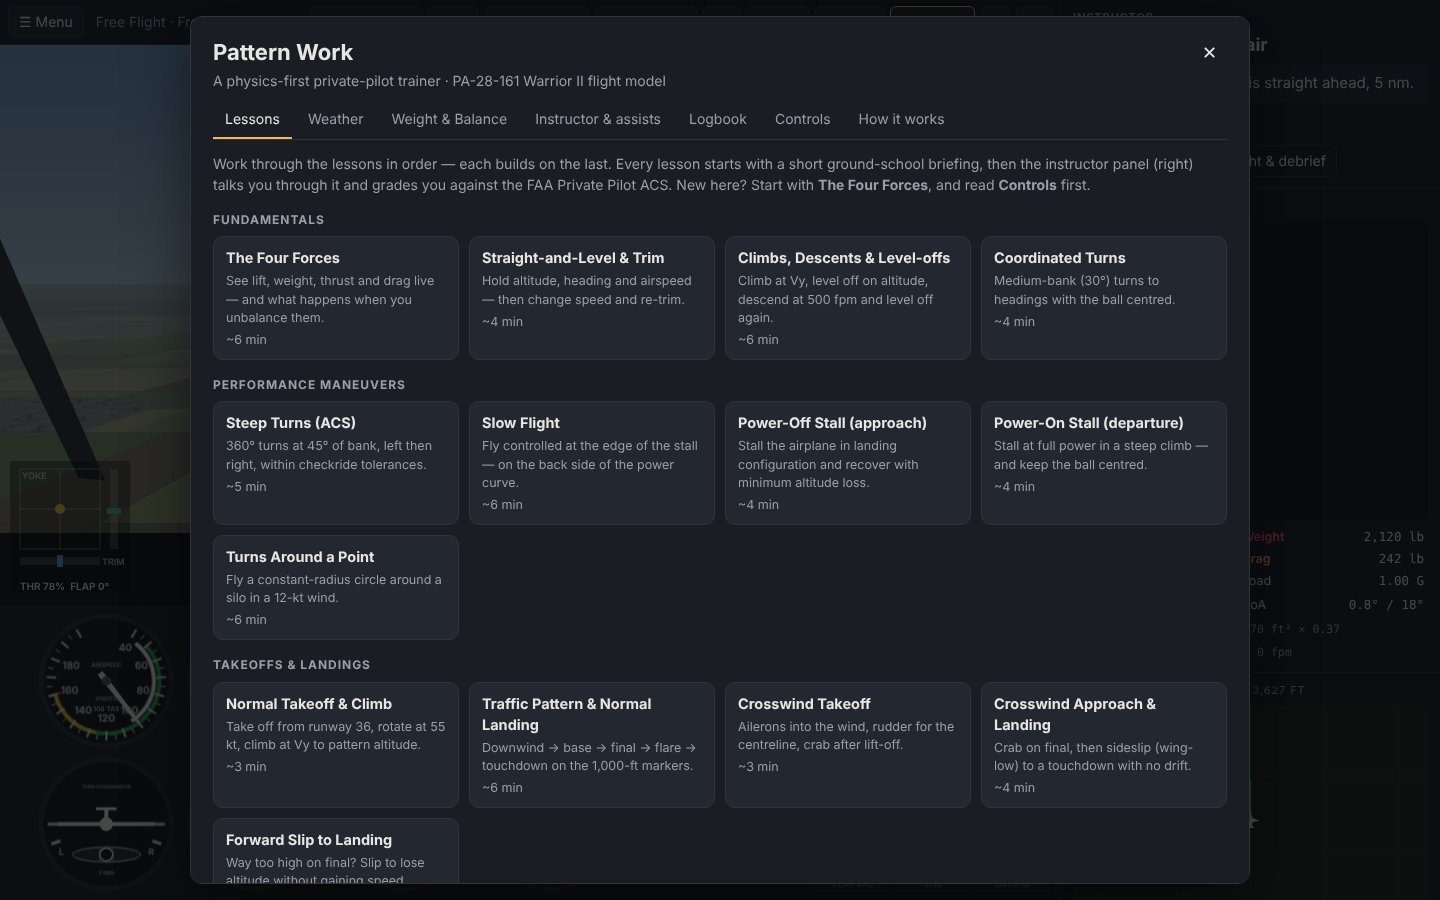
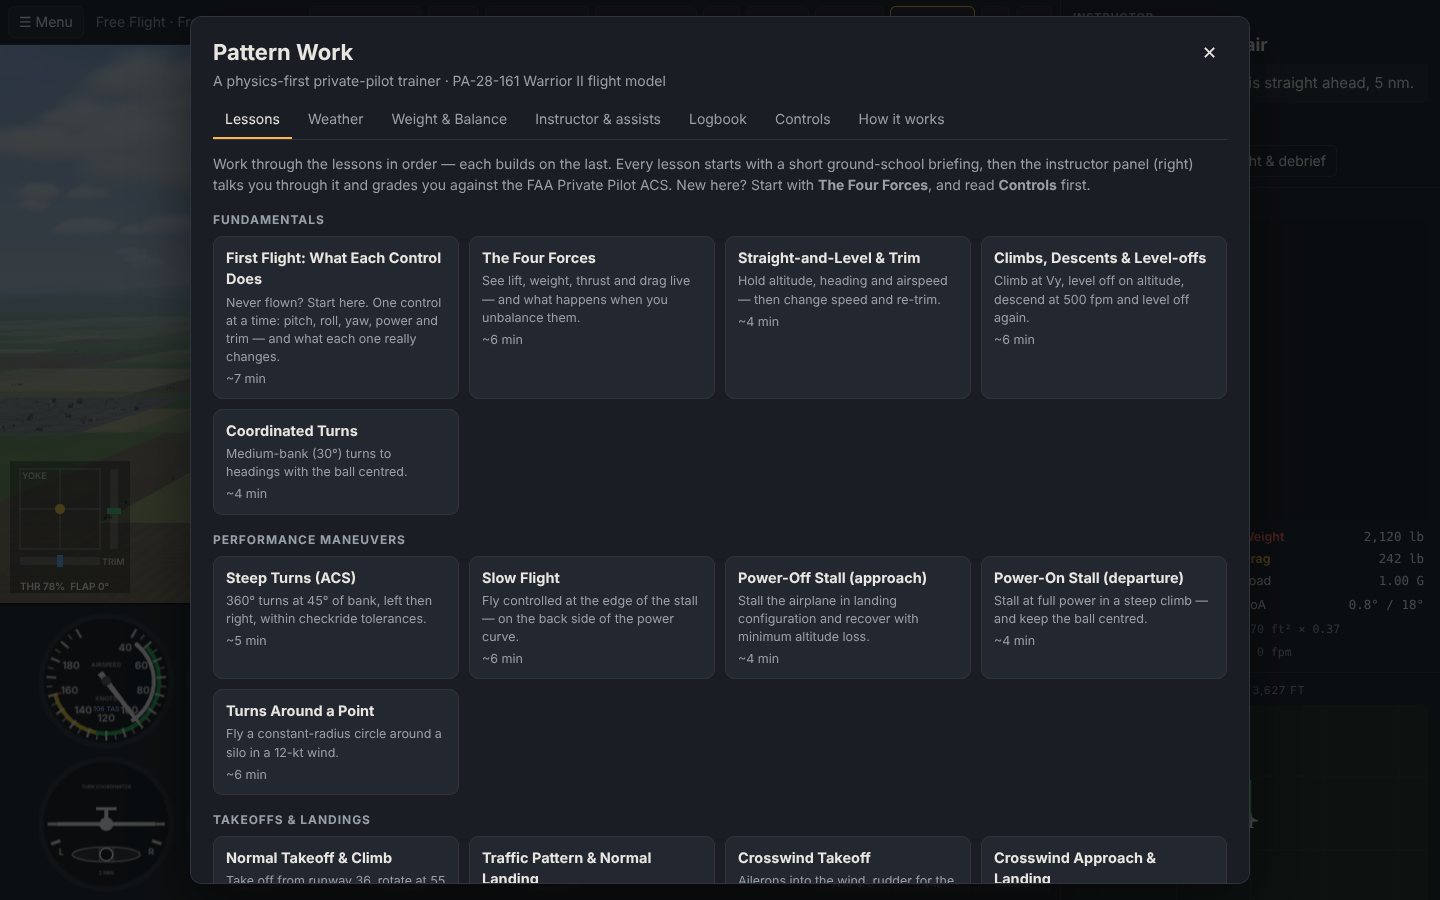
Add first-flight lesson, solid mountains, golden-hour exposure and docs
- 'First Flight: What Each Control Does' opens the syllabus for zero-hour pilots,
  with auto-rudder on and a scripted-student test proving it is completable
- flying into the mountains now ends the flight
- eye-adaptation exposure for low sun and night; textured mountain slopes
- README, controls help and screenshots updated for the 3D renderer

Claude-Session: https://claude.ai/code/session_01GHzHK7JUKCPhuHgxDoYKzp

diff --git a/js/lessons.js b/js/lessons.js
@@ -58,6 +58,99 @@
   const LESSONS = [
     // ============================================================ FUNDAMENTALS
     {
+      id: 'first-flight',
+      group: 'Fundamentals',
+      title: 'First Flight: What Each Control Does',
+      minutes: 7,
+      summary: 'Never flown? Start here. One control at a time: pitch, roll, yaw, power and trim — and what each one really changes.',
+      autoRudder: true,
+      briefing: `
+        <p><b>You are already flying.</b> The airplane starts in the air, trimmed and stable, 3,000 ft above the fields. A trainer like this Warrior <i>wants</i> to fly straight: let go and it carries on. Nothing here needs fast hands — every input is a small, slow pressure, then you wait and watch.</p>
+        <p><b>An airplane moves about three axes, and each has its own control:</b></p>
+        <ul>
+          <li><b>Pitch</b> (nose up / down) — the yoke, forward and back. It moves the <i>stabilator</i>, the whole horizontal tail.</li>
+          <li><b>Roll</b> (one wing down) — the yoke, left and right. It moves the <i>ailerons</i>, out near the wingtips, in opposite directions.</li>
+          <li><b>Yaw</b> (nose left / right) — the rudder pedals. They move the <i>rudder</i> on the fin.</li>
+        </ul>
+        <p>The fourth control is the <b>throttle</b>: how much power the engine makes. It is the airplane's energy supply.</p>
+        <p class="analogy">Analogy from your world: the throttle is how much <b>capital</b> you deploy, and the yoke decides where it goes — <b>speed or height</b>. Pull back and you convert airspeed into altitude, like rotating out of one position into another: the account total (energy) barely moves. Only the throttle adds new money, and only drag withdraws it. Every manoeuvre you will ever fly is that one trade.</p>
+        <p><b>How to read the picture:</b> look at where the dark top of the instrument panel sits against the horizon. Horizon high in the windshield means the nose is low; horizon sinking behind the nose means the nose is high. That picture — the <i>attitude</i> — is your main instrument. The gauges only confirm it.</p>
+        <p><b>The keys:</b> <kbd>↓</kbd> pulls the yoke back (nose up), <kbd>↑</kbd> pushes it forward. <kbd>←</kbd> <kbd>→</kbd> roll. <kbd>A</kbd> <kbd>D</kbd> rudder. <kbd>W</kbd> <kbd>S</kbd> throttle. Or click the view to fly with the mouse, which is smoother. <b>Auto-rudder is on</b> for this lesson so you can meet the controls one at a time. Press <kbd>C</kbd> at any moment to step outside and watch the surfaces move.</p>`,
+      setup: { air: { n: -9000, e: -1500, altFt: 3600, hdg: 360, ias: 100 }, weather: FIELD, loading: LOAD_NORMAL },
+      steps: [
+        { say: 'Hands off. The airplane is trimmed: it flies itself. Find the horizon, and notice how much of the windshield is sky and how much is ground. That picture is "straight and level".', done: (t, c) => c.stepTime > 8 },
+        {
+          say: '<b>Pitch.</b> Ease the yoke back (<kbd>↓</kbd>, small taps or a gentle hold) until the nose is about 10° above the horizon. Watch the airspeed while you do it.',
+          tip: 'You did not add any power, so the climb is paid for with airspeed. Nose up → slower.',
+          done: (t) => t.pitch > 8,
+          hold: 1.5,
+        },
+        {
+          say: 'Now ease the yoke forward (<kbd>↑</kbd>) until the nose is a little below the horizon. The airspeed comes back — and then some.',
+          tip: 'Height traded back into speed. The yoke is really a speed control: it sets angle of attack.',
+          done: (t) => t.pitch < -3,
+          hold: 1.5,
+        },
+        { say: 'Let go and let it settle back to level. A stable airplane hunts for the speed it was trimmed for, like a pendulum finding the bottom.', done: (t) => Math.abs(t.pitch) < 4 && Math.abs(t.vs) < 400, hold: 3 },
+        {
+          say: '<b>Roll.</b> Roll left (<kbd>←</kbd>) to about 20° of bank, then centre the yoke. Count how many clicks of the bank pointer you get on the attitude indicator.',
+          tip: 'The airplane stays banked after you centre the yoke. Ailerons set a roll RATE, not a bank angle: you roll in, neutralise, and roll out again later.',
+          targets: { bank: 20 },
+          done: (t) => t.bank < -15 && t.bank > -32,
+          hold: 3,
+        },
+        {
+          say: 'Keep that bank and watch the nose slide along the horizon: you are turning. You never touched anything that "steers" — the wing\'s lift is tilted, and its sideways part pulls you round the turn.',
+          enter: (c) => (c.h0 = c.t.hdg),
+          done: (t, c) => Math.abs(wrap180(t.hdg - c.h0)) > 20,
+        },
+        { say: 'Roll the wings level (<kbd>→</kbd>, then centre). The turn stops when the wings are level.', done: (t) => Math.abs(t.bank) < 5, hold: 2.5 },
+        {
+          say: 'Same to the right: roll to about 20° (<kbd>→</kbd>), hold it for a few seconds, then level the wings.',
+          done: (t, c) => {
+            if (t.bank > 15) c.wentRight = true;
+            return c.wentRight && Math.abs(t.bank) < 5;
+          },
+          enter: (c) => (c.wentRight = false),
+          hold: 2,
+        },
+        {
+          say: '<b>Yaw.</b> Press and hold right rudder (<kbd>D</kbd>) for two seconds, then release. The nose swings right — and watch the ball in the turn coordinator slide the other way.',
+          tip: 'The rudder does not turn the airplane. It only points the nose. Its job is to keep the tail following the nose so the airflow meets the airplane head-on: "ball in the middle".',
+          done: (t) => Math.abs(t.ball) > 3.5 || Math.abs(t.beta) > 5,
+        },
+        { say: 'Release the rudder. The fin weathervanes the nose straight again, just as a dart\'s feathers do.', done: (t) => Math.abs(t.beta) < 2.5, hold: 2 },
+        {
+          say: '<b>Power.</b> Go to full throttle (hold <kbd>W</kbd>) and keep your hands off the yoke. Watch what the nose does by itself.',
+          tip: 'More power than level flight needs is surplus energy. The trimmed airplane keeps its speed and spends the surplus on climbing.',
+          done: (t) => t.throttle > 0.95 && t.vs > 250,
+          hold: 3,
+        },
+        {
+          say: 'Now pull the throttle to idle (hold <kbd>S</kbd>), hands off again. The nose lowers and the airplane glides down at about the same speed. No engine does not mean falling: it means a long, shallow slide.',
+          tip: 'Power controls climb or descent. Pitch controls speed. That one sentence is most of flying.',
+          done: (t) => t.throttle < 0.05 && t.vs < -300,
+          hold: 3,
+        },
+        {
+          say: 'Bring the power back to about 2,300 RPM on the tachometer and let the airplane level off.',
+          targets: { rpm: 2300 },
+          done: (t) => t.rpm > 2150 && t.rpm < 2450 && Math.abs(t.vs) < 250,
+          hold: 4,
+        },
+        {
+          say: '<b>Trim.</b> If you find yourself holding the yoke back or forward to stay level, roll in trim until the pressure is gone: <kbd>E</kbd> for nose-up, <kbd>Q</kbd> for nose-down. Then let go and see whether it stays. Press <kbd>N</kbd> when it flies level hands-off.',
+          tip: 'Trim is a standing order: set it once and the airplane keeps coming back to that speed on its own.',
+          manual: true,
+        },
+        {
+          say: 'Last thing: press <kbd>C</kbd> for the outside view, move the controls and watch the surfaces. Stabilator for pitch, ailerons for roll, rudder for yaw. Press <kbd>N</kbd> to finish. Next up is <b>The Four Forces</b>.',
+          manual: true,
+        },
+      ],
+    },
+
+    {
       id: 'forces',
       group: 'Fundamentals',
       title: 'The Four Forces',

diff --git a/js/scenery3d.js b/js/scenery3d.js
@@ -29,8 +29,8 @@
     // sun elevation, zenith, horizon, sun colour, sun intensity, sky-fill intensity, ground bounce
     { el: -14, zen: 0x02040a, hor: 0x0b1222, sun: 0x8fa4d8, si: 0.28, hi: 0.16, gnd: 0x06080c },
     { el: -5, zen: 0x0b1838, hor: 0x4a465c, sun: 0xff7a3c, si: 0.0, hi: 0.24, gnd: 0x101216 },
-    { el: 0, zen: 0x1d3f7c, hor: 0xc9a48c, sun: 0xff8a45, si: 1.0, hi: 0.55, gnd: 0x2a2620 },
-    { el: 7, zen: 0x2a5ca8, hor: 0xcfd0cc, sun: 0xffc58a, si: 2.3, hi: 0.8, gnd: 0x4a463a },
+    { el: 0, zen: 0x1d3f7c, hor: 0xc9a48c, sun: 0xff8a45, si: 1.0, hi: 0.7, gnd: 0x2a2620 },
+    { el: 7, zen: 0x2a5ca8, hor: 0xcfd0cc, sun: 0xffc58a, si: 2.8, hi: 1.25, gnd: 0x4a463a },
     { el: 22, zen: 0x2b66bd, hor: 0xbdd6ea, sun: 0xfff0dc, si: 3.0, hi: 1.0, gnd: 0x5a5a48 },
     { el: 60, zen: 0x2460c0, hor: 0xb4d0ea, sun: 0xfffaf0, si: 3.3, hi: 1.05, gnd: 0x60604c },
   ];
@@ -72,8 +72,8 @@
     float fbm(vec2 p){ return 0.5*vnoise(p) + 0.3*vnoise(p*2.13+7.1) + 0.2*vnoise(p*4.31+3.7); }
   `;
   /** A Lambert material that adds procedural ground texture (so speed and height are readable). */
-  function groundMaterial({ rows = 0, patch = 0, grain = 1, color = 0xffffff, vertexColors = true } = {}) {
-    const m = new THREE.MeshLambertMaterial({ vertexColors, color, depthWrite: false });
+  function groundMaterial({ rows = 0, patch = 0, grain = 1, color = 0xffffff, vertexColors = true, depthWrite = false } = {}) {
+    const m = new THREE.MeshLambertMaterial({ vertexColors, color, depthWrite });
     m.onBeforeCompile = (sh) => {
       sh.uniforms.uRows = { value: rows };
       sh.uniforms.uPatch = { value: patch };
@@ -396,6 +396,8 @@
         const n = 0.55 * ridge * ridge + 0.3 * vn(x / 2300, z / 2300) + 0.15 * vn(x / 900 + 9, z / 900);
         return ramp * (0.18 + 0.82 * big) * n * 2100;
       };
+      /** Terrain height (m above the field) at a north/east position — the mountains are solid. */
+      this.heightAt = (n, e) => height(e, -n);
       const NR = 40, NA = 240;
       const rows = [];
       for (let i = 0; i <= NR; i++) {
@@ -423,7 +425,7 @@
         c.lerp(snow, M.smoothstep(1350, 1650, h - slope * 500));
         ca.setXYZ(i, c.r, c.g, c.b);
       }
-      const m = new THREE.Mesh(g, new THREE.MeshLambertMaterial({ vertexColors: true }));
+      const m = new THREE.Mesh(g, groundMaterial({ grain: 1.6, depthWrite: true }));
       m.frustumCulled = false;
       this.scene.add(m);
     }
@@ -467,7 +469,7 @@
       // ---- trees (instanced)
       const trees = objs.filter((o) => o.type === 'tree');
       {
-        const canopy = new THREE.IcosahedronGeometry(1, 2);
+        const canopy = new THREE.IcosahedronGeometry(1, 1);
         const p = canopy.attributes.position;
         const v = new THREE.Vector3();
         for (let i = 0; i < p.count; i++) {

diff --git a/js/app.js b/js/app.js
@@ -126,6 +126,11 @@
         const pre = ac.telemetry();
         this.wx.update(sdt, pre.tas * U.KT, pre.agl / FT);
         ac.step(sdt, this.flightControls(pre, sdt));
+        // the flight model's ground is the flat valley floor; the mountains around it are checked here
+        if (!ac.crashed && Math.hypot(ac.s.pos[0], ac.s.pos[1]) > 15000) {
+          const h = this.renderer.terrainHeight(ac.s.pos[0], ac.s.pos[1]);
+          if (h > 2 && -ac.s.pos[2] < h + 1) ac.crash('Flew into rising terrain. In the mountains, turn away early: a loaded trainer cannot out-climb a ridge');
+        }
       }
       const t = ac.telemetry();
       const events = ac.events;
@@ -268,6 +273,10 @@
       this.view.lookPitch = 0;
       this.view.snap = true;
       if (lesson.aids) this.view.showAids = true;
+      if (lesson.autoRudder && !this.settings.assists.autoRudder) {
+        this.settings.assists.autoRudder = true;
+        this.toast('Auto-rudder is ON for this lesson (G toggles it).', 'good', 5000);
+      }
       this.renderer.chase.offset = null;
       this.map.options = S.map || {};
       this.map.clearTrail();
@@ -1327,7 +1336,7 @@
         <div class="group-title">Sim</div>
         <div class="keys">
           ${k(['Y'], 'Mouse yoke on/off (or click the view)')}
-          ${k(['C'], 'View: cockpit → chase → tower')}
+          ${k(['C'], 'View: cockpit → chase → tower → fly-by')}
           ${k(['1', '2', '3', '4', '5'], 'Look left · front-left · ahead · front-right · right')}
           ${k(['6', '7'], 'Look back-left / back-right')}
           ${k(['H'], 'Teaching aids (flight-path marker, digital HUD)')}

diff --git a/tests/lessons.test.js b/tests/lessons.test.js
@@ -89,6 +89,30 @@ test('student completes Normal Takeoff & Climb with a satisfactory grade', () =>
   assert.equal(fails.length, 0, JSON.stringify(fails));
 });
 
+test('a first-timer can complete First Flight one control at a time', () => {
+  const l = FS.LESSONS.find((x) => x.id === 'first-flight');
+  assert.equal(FS.LESSONS[0], l, 'it is the first lesson');
+  const h = harness(l);
+  const ap = new Autopilot();
+  const d = h.run(600, (t, c, dt, r) => {
+    const i = r.i;
+    c.aileron = 0;
+    c.elevator = 0;
+    c.rudder = 0.03 * t.ball; // the auto-rudder assist
+    if (i === 1) ap.pitch(t, c, 10, dt);
+    else if (i === 2) ap.pitch(t, c, -5, dt);
+    else if (i === 4 || i === 5) ap.bank(t, c, -20);
+    else if (i === 7) ap.bank(t, c, r.ctx.wentRight ? 0 : 20);
+    else ap.bank(t, c, 0);
+    if (i === 8) c.rudder = 0.8;
+    if (i === 10) c.throttle = 1;
+    else if (i === 11) c.throttle = 0;
+    else if (i >= 12) c.throttle = M.clamp(c.throttle + (2300 - t.rpm) * 0.0004 * dt * 60 * 0.05, 0, 1);
+    if (r.step && r.step.manual && r.ctx.stepTime > 2) r.ack();
+  });
+  assert.ok(d && d.completed, `completed (stuck at step ${h.runner.i})`);
+});
+
 test('student completes Straight-and-Level (with speed changes)', () => {
   const l = FS.LESSONS.find((x) => x.id === 'straight-level');
   const h = harness(l);

diff --git a/js/render3d.js b/js/render3d.js
@@ -178,6 +178,11 @@
       cam.updateMatrixWorld(true);
     }
 
+    /** Height of the terrain (m above field elevation) under a north/east position. */
+    terrainHeight(n, e) {
+      return this.ok ? this.scenery.heightAt(n, e) : 0;
+    }
+
     /** World NED point -> overlay pixel, or null when behind the camera. */
     project(p) {
       const v = P(p).project(this.camera);
@@ -226,7 +231,8 @@
       if (this.scenery.setTime(hour, visM)) this.bakeEnvironment();
       this.scenery.setClouds(cfg.cloudCover === undefined ? 2 : cfg.cloudCover, cfg.cloudBaseFt === undefined ? 4500 : cfg.cloudBaseFt);
       const env = this.scenery.env;
-      this.gl.toneMappingExposure = 0.9 + 0.5 * env.dark;
+      // the eye adapts: open up the exposure as the sun gets low, and again after dark
+      this.gl.toneMappingExposure = 0.9 + 0.7 * (1 - M.smoothstep(4, 28, env.el)) + 0.2 * env.dark;
 
       this.setupCamera(ac, view, dt);
 

diff --git a/README.md b/README.md
@@ -2,10 +2,13 @@
 
 A browser flight simulator built to teach **why airplanes fly the way they do**, not just how to push buttons.
 It models a **PA-28-161 Warrior II**-class trainer with a full six-degree-of-freedom flight model driven by the four
-forces — **lift, weight, thrust and drag** — and wraps it in a 17-lesson private-pilot syllabus (plus three free-flight modes) with
-ground-school briefings, an on-screen instructor and grading against the FAA Private Pilot ACS.
+forces — **lift, weight, thrust and drag** — draws it in a lit, shadowed 3D world (WebGL), and wraps it in an
+18-lesson private-pilot syllabus (plus three free-flight modes) with ground-school briefings, an on-screen
+instructor and grading against the FAA Private Pilot ACS.
 
-No install, no build, no internet needed: it's plain HTML/JS.
+![Chase view with live force vectors](shots/03-chase.png)
+
+No install, no build, no internet needed: it's plain HTML/JS (three.js is vendored in `vendor/`).
 
 ## Run it
 
@@ -17,8 +20,9 @@ open index.html            # macOS  (or double-click it, or xdg-open on Linux)
 python3 -m http.server 8080   # then visit http://localhost:8080
 ```
 
-Use a desktop browser with a keyboard and mouse (a gamepad/joystick also works).
-Start with **Menu → Controls**, then **Lessons → The Four Forces**.
+Use a desktop browser with a keyboard and mouse (a gamepad/joystick also works). It needs WebGL, which every
+current browser has; on a slow machine the sim lowers its own resolution to stay smooth.
+**Never flown before? Start with Lessons → First Flight: What Each Control Does.**
 
 ## Controls (short version)
 
@@ -32,8 +36,8 @@ Start with **Menu → Controls**, then **Lessons → The Four Forces**.
 | Flaps | `F` down a notch · `V` up a notch (0/10/25/40°) |
 | Brakes / parking brake | `Space` (hold) / `B` |
 | **Mouse yoke** | click the 3D view or `Y` — mouse position = yoke, wheel = trim |
-| Views | `C` cockpit → chase → tower · `1`–`5` look left…right |
-| Teaching aids | `H` flight-path marker + digital HUD |
+| Views | `C` cockpit → chase → tower → fly-by · `1`–`5` look left…right |
+| Teaching aids | `H` flight-path marker + digital HUD + airflow tufts on the wing |
 | Auto-rudder assist | `G` |
 | Continue / pause / restart / slow-mo | `N` / `P` / `R` / `T` |
 
@@ -44,7 +48,7 @@ just like a real yoke. That's why trimming matters (and why the mouse yoke is th
 
 | Group | Lessons |
 |---|---|
-| Fundamentals | The Four Forces (live force vectors) · Straight-and-Level & Trim · Climbs, Descents & Level-offs · Coordinated Turns |
+| Fundamentals | **First Flight: What Each Control Does** (start here) · The Four Forces (live force vectors) · Straight-and-Level & Trim · Climbs, Descents & Level-offs · Coordinated Turns |
 | Performance maneuvers | Steep Turns (ACS) · Slow Flight · Power-Off Stall · Power-On Stall · Turns Around a Point |
 | Takeoffs & landings | Normal Takeoff · Traffic Pattern & Normal Landing · Crosswind Takeoff · Crosswind Landing · Forward Slip |
 | Emergencies | Engine Failure & Glide |
@@ -85,12 +89,37 @@ line, so you judge yourself on the trend and not on one flight.
 
 ### A suggested path
 
+0. **First Flight** — pitch, roll, yaw, power and trim, one at a time, with auto-rudder on.
 1. **The Four Forces** — fly in chase view and watch the vectors. Make thrust < drag and see what happens.
 2. **Straight-and-Level & Trim** → **Climbs & Descents** → **Turns** — attitude + power = performance.
 3. **Slow Flight** → **Power-Off Stall** → **Power-On Stall** — angle of attack is the whole story.
 4. **Normal Takeoff** → **Traffic Pattern & Landing** — then grind **Free Flight — touch-and-goes**.
 5. **Steep Turns**, **Turns Around a Point**, **Crosswinds**, **Forward Slip**, **Engine Failure**.
 6. **Hot & High** and **Weight & Balance** — the airplane you fly depends on the air and the load.
+
+## What you see
+
+The picture is built from the same numbers the physics uses, so what you see is what the airplane is doing.
+
+- **The airplane.** The wing is a real airfoil section with the Warrior's taper and 7° of dihedral. Ailerons, flaps,
+  the all-moving stabilator and the rudder deflect by the angles the aerodynamics is using. The oleo struts
+  compress under load, the wheels spin up on touchdown (with a puff of tyre smoke) and the nose wheel steers.
+  The propeller blurs into a disc as the RPM rises.
+- **Airflow you can watch.** With the aids on, rows of wool tufts sit on the wing, as in a flight test. In normal
+  flight they lie flat and blue. As you approach the critical angle of attack they turn red and flail, starting at
+  the wing root and trailing edge and creeping outward. That is a stall, seen directly.
+- **Force arrows** for lift, weight, thrust, drag and the relative wind, drawn to scale in the chase view.
+- **Light and weather.** Time of day from dawn to night, real-time shadows, haze that thins the far distance
+  the way real air does, drifting cumulus at a cloud base you choose, and visibility from 3 to 60 miles
+  (Menu → Weather → The sky).
+- **A world with scale cues.** Crop rows, section-line roads, farmsteads, woods, a town, a lake and a mountain range
+  on the horizon. Ground texture gets finer as you descend, which is what lets you judge height in the flare.
+- **The airport.** Runway 18/36 with markings and rubber marks, a working PAPI, edge and threshold lights, a
+  windsock that swings and droops with the wind, and a rotating beacon.
+- **The cockpit.** You sit in the left seat. The glareshield, cowling and windshield posts give you the sight
+  picture, and your head moves with G, braking, stall buffet and runway rumble.
+
+![From the left seat](shots/02-cockpit.png)
 
 ## What's actually simulated
 
@@ -149,7 +178,10 @@ straight-and-level, steep-turn and landing lessons to prove they're completable 
 | `js/aircraft.js` | PA-28 data: geometry, W&B, inertia, aero derivatives, engine, prop, gear |
 | `js/physics.js` | the 6-DOF flight model, ground contact, trim solver, telemetry |
 | `js/world.js` | airport (runway 18/36, PAPI, windsock), farmland, landmarks |
-| `js/render3d.js` | cockpit / chase / tower views on a 2D canvas, 3D force vectors |
+| `js/render3d.js` | the WebGL renderer: cockpit / chase / tower / fly-by cameras, shadows, force arrows, tyre smoke |
+| `js/airplane3d.js` | the PA-28 model, built from the flight model's own geometry, and its moving parts |
+| `js/scenery3d.js` | sky and sun, haze, terrain, airport, trees, clouds, lights |
+| `vendor/three.min.js` | three.js r160 (MIT) |
 | `js/instruments.js` | six-pack, tachometer, AoA, G-meter, levers, annunciators |
 | `js/diagrams.js` | live four-forces diagram, moving map |
 | `js/lessons.js` | the syllabus and the step-by-step lesson grader |
